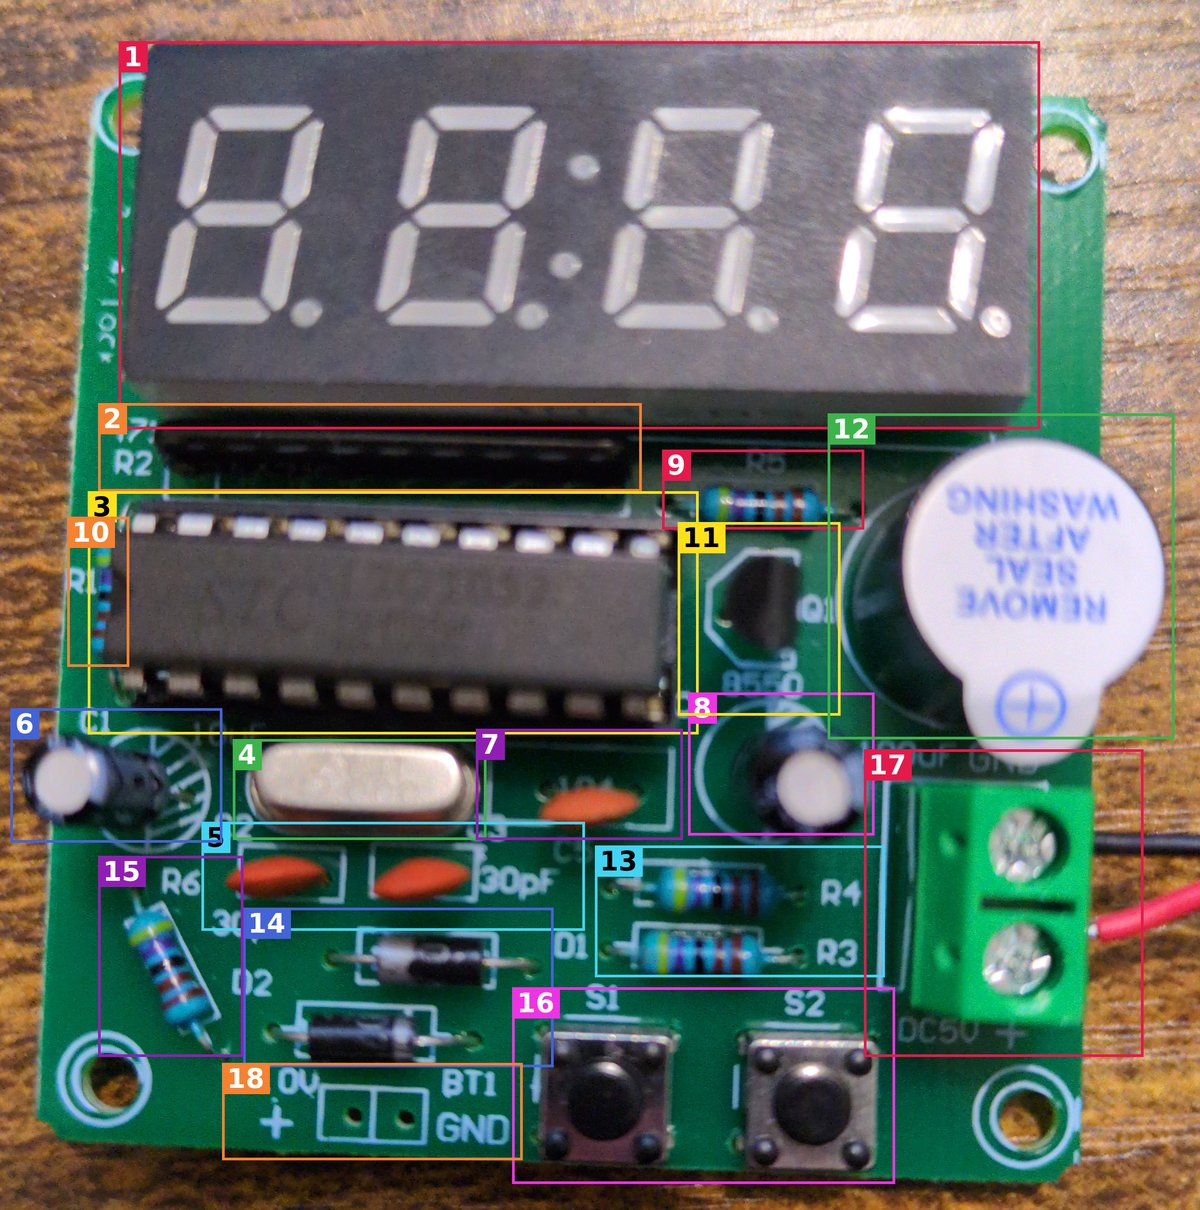
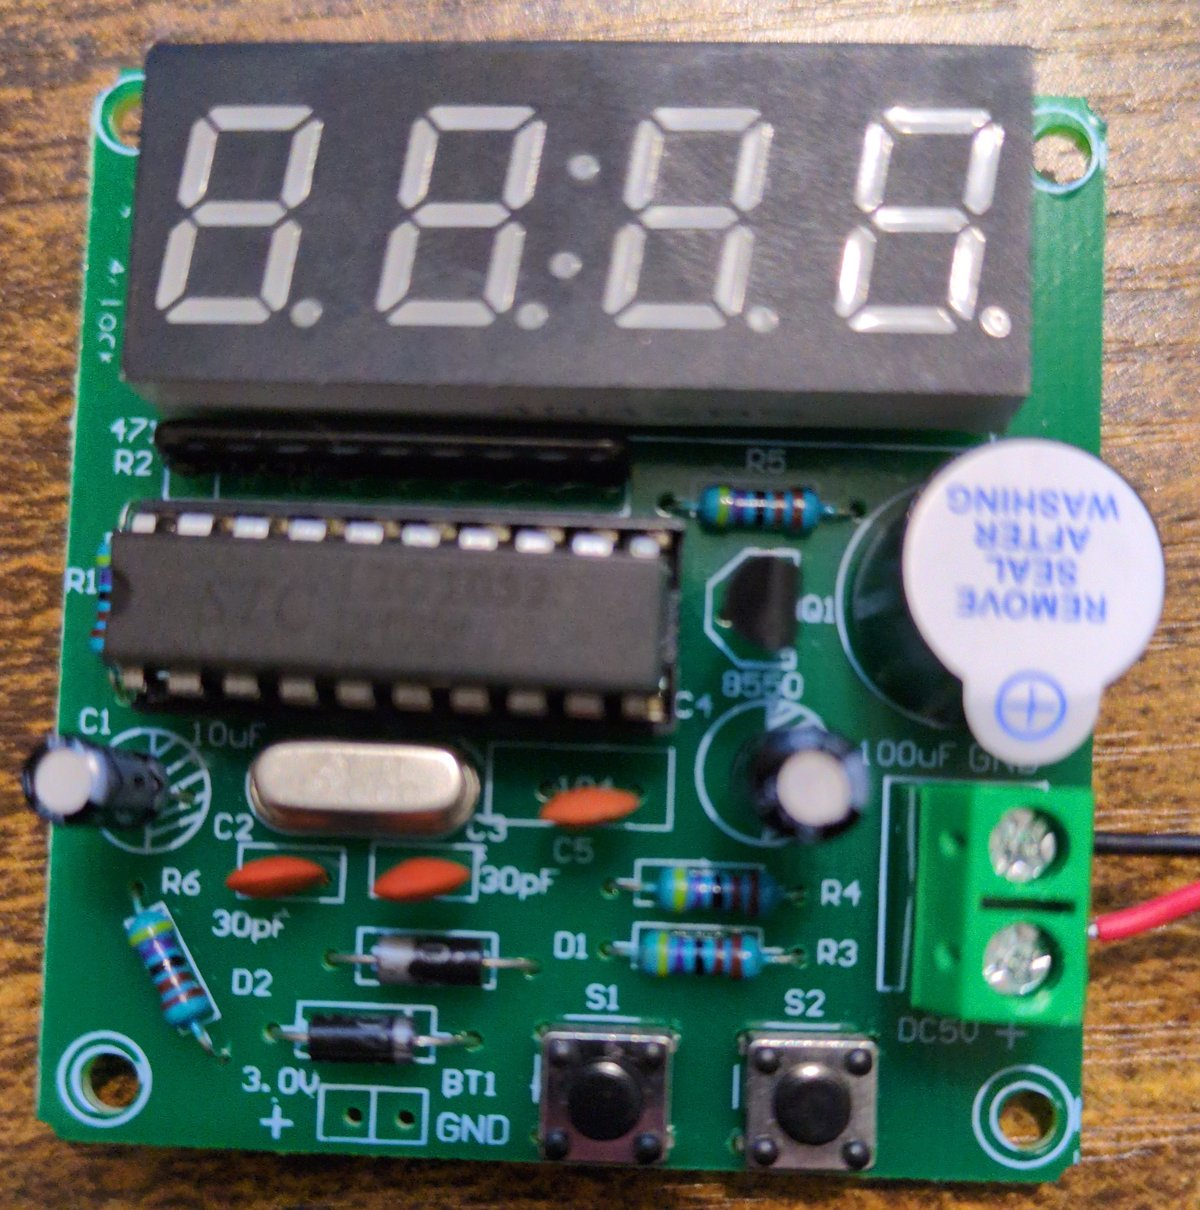
feat(blog): 時計キット記事の全体図をクリックで部品解説が開く island にする
AGENTS.md の「interactive 記事だけを置く」に合わせ、全体図の番号枠から
該当部品の <details> を開く BoardMap island を追加。部品写真の alt を
見た目の特徴を書く内容に変更。

Claude-Session: https://claude.ai/code/session_01LjGAVgsQRuTGdBAMij3jqB

Changed region(s): [[0.0, 0.0306, 0.9867, 0.9785]]

diff --git a/src/content/blog/clock-kit-parts/_components/parts.ts b/src/content/blog/clock-kit-parts/_components/parts.ts
@@ -1,0 +1,26 @@
+/** 全体図（board.jpg、元写真の 1160×1170 の範囲）上の部品の枠。番号は記事の #part-N と対応する */
+export const VIEW_WIDTH = 1160;
+export const VIEW_HEIGHT = 1170;
+
+export type Part = { n: number; title: string; x: number; y: number; w: number; h: number };
+
+export const parts: Part[] = [
+  { n: 1, title: "4桁 7セグメントLED", x: 115, y: 40, w: 890, h: 375 },
+  { n: 2, title: "R2：抵抗アレイ「471」", x: 95, y: 390, w: 525, h: 85 },
+  { n: 3, title: "STC12C2052：マイコン（IC）", x: 85, y: 475, w: 590, h: 235 },
+  { n: 4, title: "水晶振動子 12MHz", x: 225, y: 715, w: 245, h: 97 },
+  { n: 5, title: "C2・C3：セラミックコンデンサ 30pF", x: 195, y: 795, w: 370, h: 105 },
+  { n: 6, title: "C1：電解コンデンサ 10µF（リセット用と推定）", x: 10, y: 685, w: 205, h: 130 },
+  { n: 7, title: "C5：セラミックコンデンサ「104」（0.1µF）", x: 460, y: 705, w: 200, h: 107 },
+  { n: 8, title: "C4：電解コンデンサ 100µF（電源の平滑用）", x: 665, y: 670, w: 180, h: 138 },
+  { n: 9, title: "R5：抵抗（トランジスタのベース抵抗と推定）", x: 640, y: 435, w: 195, h: 77 },
+  { n: 10, title: "R1：抵抗（リセット回路用と推定）", x: 65, y: 500, w: 60, h: 145 },
+  { n: 11, title: "Q1：8550 PNPトランジスタ", x: 655, y: 505, w: 157, h: 187 },
+  { n: 12, title: "ブザー", x: 800, y: 400, w: 335, h: 315 },
+  { n: 13, title: "R3・R4：抵抗（ボタン用のプルアップと推定）", x: 575, y: 818, w: 280, h: 127 },
+  { n: 14, title: "D1・D2：ダイオード", x: 235, y: 878, w: 300, h: 154 },
+  { n: 15, title: "R6：抵抗", x: 95, y: 828, w: 140, h: 194 },
+  { n: 16, title: "S1・S2：タクトスイッチ", x: 495, y: 955, w: 370, h: 190 },
+  { n: 17, title: "電源端子（DC 5V）", x: 835, y: 725, w: 270, h: 297 },
+  { n: 18, title: "BT1：バックアップ電池端子（3.0V）", x: 215, y: 1028, w: 290, h: 94 },
+];

diff --git a/src/content/blog/clock-kit-parts/_components/BoardMap.tsx b/src/content/blog/clock-kit-parts/_components/BoardMap.tsx
@@ -1,0 +1,34 @@
+import type { MouseEvent } from "react";
+import { parts, VIEW_HEIGHT, VIEW_WIDTH } from "./parts";
+
+/** 基板写真の上に部品の枠を重ね、クリックで記事内の該当部品（<details id="part-N">）を開いてスクロールする */
+export default function BoardMap({ src }: { src: string }) {
+  const open = (n: number) => (event: MouseEvent) => {
+    const target = document.getElementById(`part-${n}`);
+    if (!(target instanceof HTMLDetailsElement)) return;
+    event.preventDefault();
+    target.open = true;
+    target.scrollIntoView({ behavior: "smooth", block: "start" });
+  };
+
+  return (
+    <figure className="kit-board">
+      <svg
+        viewBox={`0 0 ${VIEW_WIDTH} ${VIEW_HEIGHT}`}
+        role="group"
+        aria-label="時計キットの基板写真。番号の枠を押すとその部品の解説が開く"
+      >
+        <image href={src} width={VIEW_WIDTH} height={VIEW_HEIGHT} />
+        {parts.map((p) => (
+          <a key={p.n} href={`#part-${p.n}`} onClick={open(p.n)} className="kit-board-part" aria-label={`${p.n}. ${p.title}`}>
+            <rect x={p.x} y={p.y} width={p.w} height={p.h} className="kit-board-box" />
+            <rect x={p.x} y={p.y} width={p.n >= 10 ? 60 : 40} height={40} className="kit-board-tag" />
+            <text x={p.x + 8} y={p.y + 31} className="kit-board-num">
+              {p.n}
+            </text>
+          </a>
+        ))}
+      </svg>
+    </figure>
+  );
+}

diff --git a/src/content/blog/clock-kit-parts/_components/clock-kit.css b/src/content/blog/clock-kit-parts/_components/clock-kit.css
@@ -1,10 +1,4 @@
 /* 部品解説の開閉リスト。CSP で style 属性が使えないためクラスで装飾する */
-.kit-overview {
-  width: 100%;
-  border: 1px solid var(--border);
-  border-radius: var(--rounded-code);
-}
-
 .kit-part {
   margin: var(--spacing-sm) 0;
   border: 1px solid var(--border);
@@ -43,4 +37,44 @@
 .kit-note {
   color: var(--muted-foreground);
   font-size: 0.875rem;
+}
+
+/* 全体図（BoardMap island）。枠は hover / focus で強調する */
+.kit-board {
+  margin: var(--spacing-md) 0;
+}
+
+.kit-board svg {
+  display: block;
+  width: 100%;
+  height: auto;
+  border: 1px solid var(--border);
+  border-radius: var(--rounded-code);
+}
+
+.kit-board-box {
+  fill: transparent;
+  stroke: #facc15;
+  stroke-width: 3;
+}
+
+.kit-board-tag {
+  fill: #facc15;
+}
+
+.kit-board-num {
+  fill: #1a1a1a;
+  font-family: var(--font-body);
+  font-size: 30px;
+  font-weight: 700;
+}
+
+.kit-board-part:hover .kit-board-box,
+.kit-board-part:focus-visible .kit-board-box {
+  fill: rgb(250 204 21 / 0.25);
+  stroke-width: 5;
+}
+
+.kit-board-part:focus-visible {
+  outline: none;
 }
